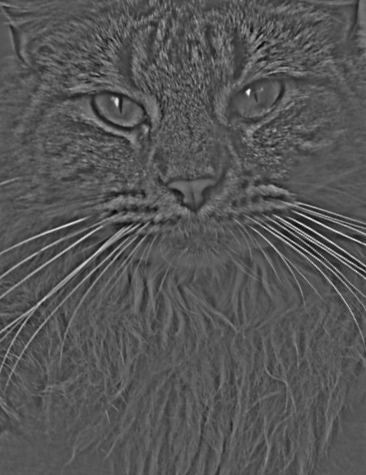
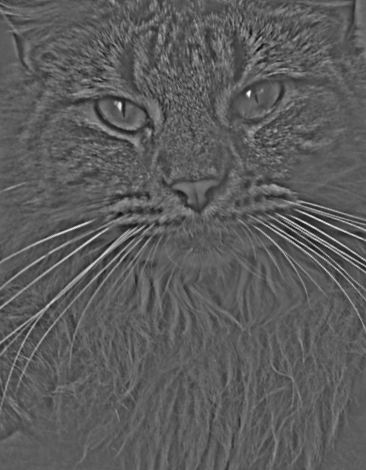
new derek

diff --git a/run_part2_2.py b/run_part2_2.py
@@ -8,17 +8,17 @@ from pathlib import Path
 from align_image_code import align_images
 
 # ------------------------ Config ------------------------
-IMG1_PATH = "data/dog.jpg"   # high-frequency source
-IMG2_PATH = "data/cat.jpg"    # low-frequency source
+IMG1_PATH = "data/nutmeg.jpg"   # high-frequency source
+IMG2_PATH = "data/DerekPicture.jpg"    # low-frequency source
 
 # Name each run so outputs don’t overwrite
-RUN_NAME  = "dog_cat"      
+RUN_NAME  = "nutmeg_Derek"      
 OUT_ROOT  = "results/part2_2"   # final OUTDIR will be results/part2_2/<RUN_NAME>
 
 # Parameters
-SIGMA_LOW  = 7.0    # Gaussian sigma for low-pass (im2)
-SIGMA_HIGH = 2.5    # Gaussian sigma inside high-pass (im1’s blur)
-ALPHA_HIGH = 1.0    # scale for high-pass before combining
+SIGMA_LOW  = 9.0    # Gaussian sigma for low-pass (im2)
+SIGMA_HIGH = 4.0   # Gaussian sigma inside high-pass (im1’s blur)
+ALPHA_HIGH = 1.5    # scale for high-pass before combining
 BETA_LOW   = 1.0    # scale for low-pass before combining
 # --------------------------------------------------------
 
@@ -125,8 +125,8 @@ def main():
     save_img(f"{OUTDIR}/{run_name}_orig_low.png", to_gray01(im2_aligned))
 
     # Center crop
-    im1_aligned = center_crop(im1_aligned, ratio=0.9)
-    im2_aligned = center_crop(im2_aligned, ratio=0.9)
+    im1_aligned = center_crop(im1_aligned, ratio=0.5)
+    im2_aligned = center_crop(im2_aligned, ratio=0.5)
 
     im1g = to_gray01(im1_aligned)
     im2g = to_gray01(im2_aligned)
